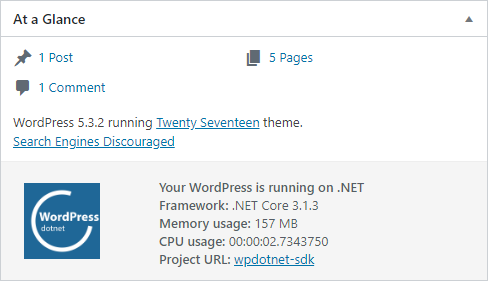
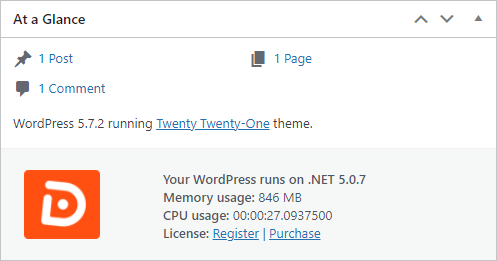
updated overview, registration

diff --git a/docs/overview.md b/docs/overview.md
@@ -1,23 +1,23 @@
 # Overview
 
-[WpDotNet](https://wpdotnet.peachpie.io/) is the latest unmodified WordPress, running compiled purely on .NET, provided as a NuGet package & ready to be used as a part of an ASP NET Core application. WpDotNet comes with additional components and features, making it easy to be used from C# and a .NET development environment in general.
+[WpDotNet](https://wpdotnet.peachpie.io/) is the unmodified WordPress, running compiled purely on .NET, provided as a NuGet package & ready to be used as a part of an ASP NET Core application. WpDotNet comes with additional components and features, making it easy to be used from C# and a .NET development environment in general.
 
 The project does not require PHP to be installed, and is purely built on top of the .NET platform.
 
 ## Requirements
 
-- .NET Core SDK 3.0 or newer. ([dotnet.microsoft.com](https://dotnet.microsoft.com/download) or [visualstudio.microsoft.com](https://visualstudio.microsoft.com/vs/))
+- .NET CoreSDK 3.0, .NET SDK 5.0, or newer. ([dotnet.microsoft.com](https://dotnet.microsoft.com/download) or [visualstudio.microsoft.com](https://visualstudio.microsoft.com/vs/))
 - MySQL Server ([dev.mysql.com](https://dev.mysql.com/downloads/mysql/) or [docker](https://hub.docker.com/_/mysql))
 
 Make sure you have valid credentials to your MySQL server and you have created a database in it. The following quick start expects a database named `"wordpress"`. Database charset `"UTF-8"` is recommended.
 
 ## Quick Start
 
-> A demo wordpress application is available at [github.com/iolevel/peachpie-wordpress](https://github.com/iolevel/peachpie-wordpress).
+> Sources of a demo wordpress application is available at [github.com/iolevel/peachpie-wordpress](https://github.com/iolevel/peachpie-wordpress).
 
 Open or create an ASP NET Core application, version 3.0 or newer.
 
-Add a package reference to [`"Peachpied.WordPress.AspNetCore"`](https://www.nuget.org/packages/PeachPied.WordPress.AspNetCore/) (note it is a pre-release package):
+Add a package reference to [`"Peachpied.WordPress.AspNetCore"`](https://www.nuget.org/packages/PeachPied.WordPress.AspNetCore/) (note it is a **pre-release** package):
 
 ```shell
 dotnet add package PeachPied.WordPress.AspNetCore --version 5.7.8-preview8
@@ -63,6 +63,19 @@ Besides regular WordPress dashboard pages, WpDotNet adds an informational panel 
 ![WpDotNet At Glance](img/wp-dashboard-glance.png)
 
 The panel provides information about the current .NET runtime version, consumed memory, or total CPU time spent in the whole application. Note that the values are reset if the process is restarted.
+
+## Registration
+
+Go to the **At a Glance** panel in the WordPress Dashboard. The current registration information is displayed next the to **License:** label.
+
+- **Register** opens dialog to enter the registration e-mail, or provided license key.
+- **Purchase** opens a web page to where the registration can be obtained.
+
+The registration is bound to the actual domain host name.
+
+![watermark](img/watermark.png)
+
+Without the registration, all the functionality is kept the same, although pages are marked with small logo.
 
 ## Remarks
 
